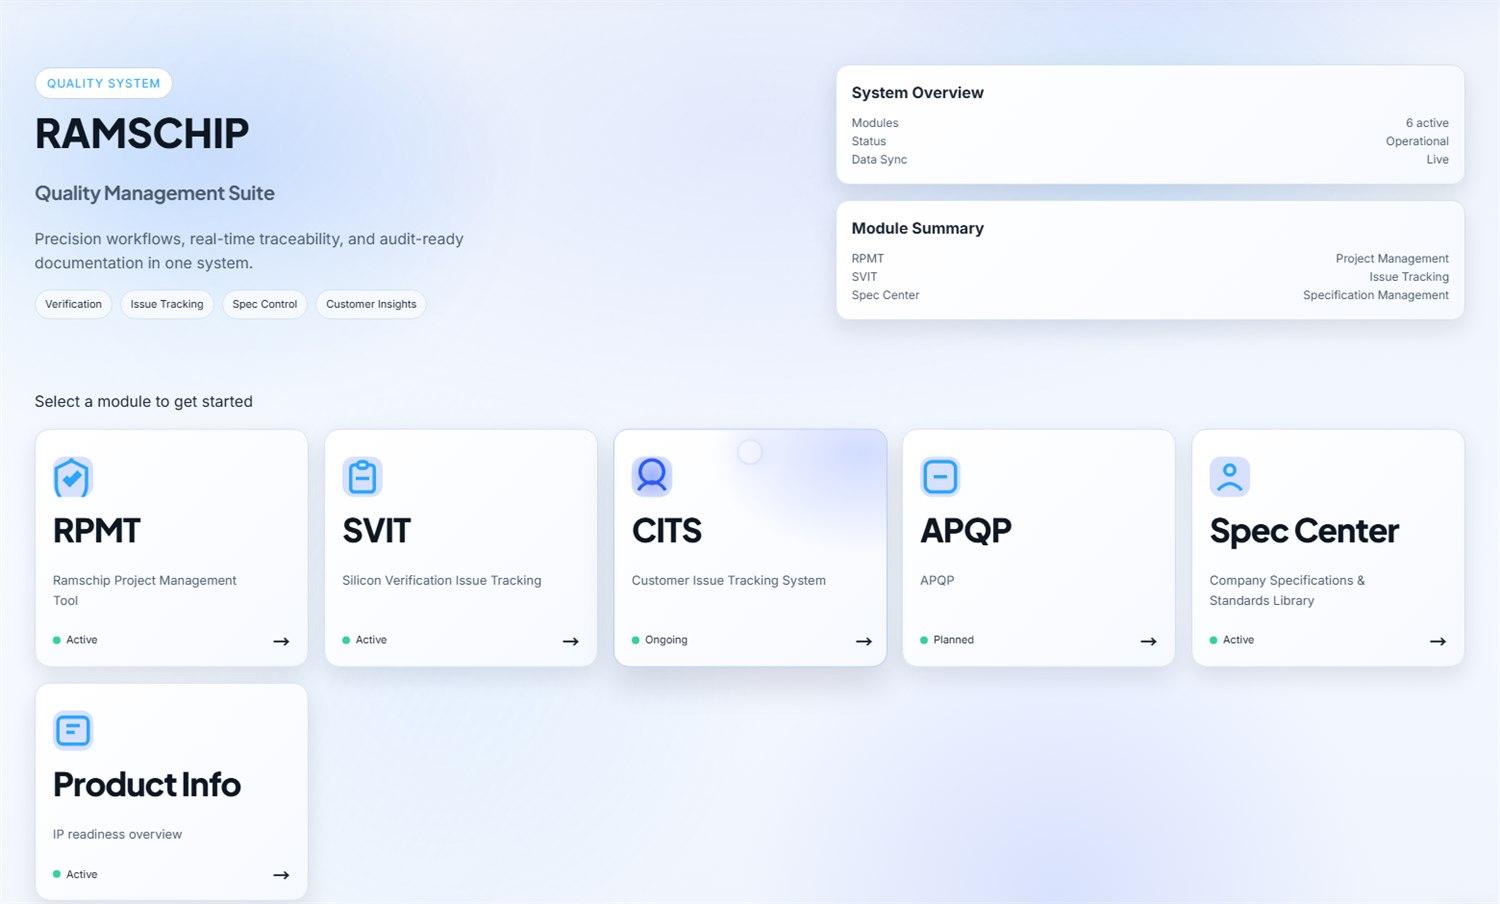
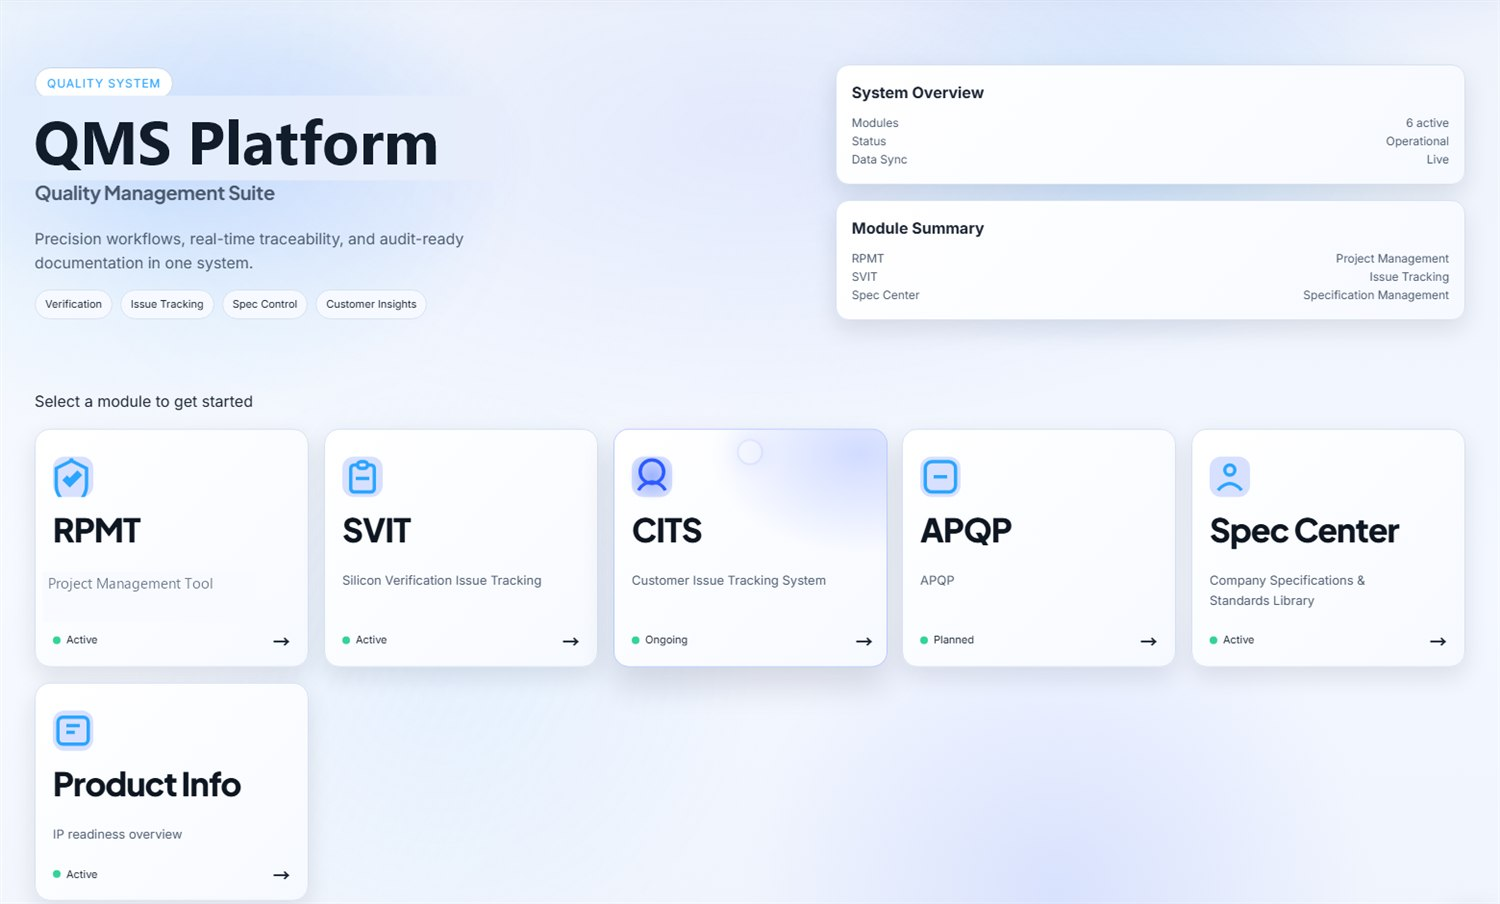
Use real app screenshots for FuSa Studio and DQV; mask company name on QMS
FuSa Studio and DQV Sign-off Hub now use real captured app screenshots (localhost:3000 and :5000) instead of a diagram/mockup; all three cards marked as real screens. Mask the RAMSCHIP wordmark on the QMS dashboard image (replaced with QMS Platform, RPMT subtitle genericized). Remove unused fusa-process.jpg.

Changed region(s): [[0.0, 0.1239, 0.3067, 0.2168], [0.0307, 0.6195, 0.1533, 0.6814]]

diff --git a/index.html b/index.html
@@ -238,14 +238,14 @@
 <article class="product rev reveal">
   <div class="showcase">
     <div class="window">
-      <div class="win-bar dark"><span class="dot r"></span><span class="dot y"></span><span class="dot g"></span><div class="win-url">fusa-studio / ISO 26262 work-product map</div></div>
-      <div class="shot-tall"><img src="assets/fusa-process.jpg" alt="FuSa Studio — ISO 26262 Phase·Activity·Work Product·Sub-Content 산출물 구조도 (Concept·Design·Implementation·Verification·Release)" loading="lazy"></div>
+      <div class="win-bar dark"><span class="dot r"></span><span class="dot y"></span><span class="dot g"></span><div class="win-url">fusa-studio / safety workspace</div></div>
+      <img src="assets/fusa-app.jpg" alt="FuSa Studio — ISO 26262 세이프티 워크스페이스: 프로젝트 인덱스, Functional Safety Governance, Ethernet PHY IP(ASIL B · SEooC)" loading="lazy">
     </div>
-    <p class="figcap">FuSa Studio가 관리하는 ISO 26262 산출물 체계도 (실제 산출물 맵)</p>
+    <p class="figcap">실제 운영 중인 FuSa Studio 화면입니다.</p>
   </div>
   <div class="product-info">
     <span class="product-tag"><i></i>Functional Safety Tool</span>
-    <h3>FuSa Studio<span class="real-badge">실제 산출물</span></h3>
+    <h3>FuSa Studio<span class="real-badge">실제 화면</span></h3>
     <p class="sub">ISO 26262 기능안전 산출물·추적성 관리 도구</p>
     <p>표준 요구를 실행 가능한 산출물로 바꾸기 위해 만든 기능안전 전용 도구입니다. HARA부터 Safety Goal, FSR/TSR, FMEA·FTA·FMEDA, V&amp;V까지 산출물을 연결하고, 요구사항 추적성과 안전 메트릭(SPFM·LFM·PMHF)을 한 화면에서 관리합니다.</p>
     <ul class="feat">
@@ -262,7 +262,7 @@
 <article class="product reveal">
   <div class="product-info">
     <span class="product-tag"><i></i>Release Gate System</span>
-    <h3>DQV Sign-off Hub<span class="ui-badge">UI 시안</span></h3>
+    <h3>DQV Sign-off Hub<span class="real-badge">실제 화면</span></h3>
     <p class="sub">Design Quality Verification 릴리스 게이트</p>
     <p>Foundry Standard 179개 필수 룰을 Verilog·LEF·Liberty·DRC·LVS·datasheet·pininfo Checker와 연결해 릴리스 판단을 시스템화했습니다. Job 상태, 검증 결과, 실패 원인을 분리해 관리하고 Sign-off 근거를 남깁니다.</p>
     <ul class="feat">
@@ -273,31 +273,17 @@
     <div class="stack"><span>Python</span><span>Rust</span><span>Rule Engine</span><span>DRC / LVS</span><span>CI Runner</span></div>
     <div class="pmetrics"><div><strong>179</strong><span>필수 룰</span></div><div><strong>7</strong><span>Checker 연동</span></div><div><strong>1-click</strong><span>Sign-off 근거</span></div></div>
   </div>
-  <div class="window">
-    <div class="win-bar"><span class="dot r"></span><span class="dot y"></span><span class="dot g"></span><div class="win-url">dqv-hub / release-readiness</div></div>
-    <div class="dqv">
-      <div class="dqv-left">
-        <div class="dqv-h">Foundry Standard · 179 Rules</div>
-        <div class="dqv-sub">MPW-A1 · Rev.C · Checker Results</div>
-        <div class="dchk"><span class="ci ok">✓</span><em>Verilog Netlist</em><s>28/28</s></div>
-        <div class="dchk"><span class="ci ok">✓</span><em>LEF · Abstract</em><s>21/21</s></div>
-        <div class="dchk"><span class="ci ok">✓</span><em>Liberty · Timing</em><s>34/34</s></div>
-        <div class="dchk"><span class="ci ok">✓</span><em>DRC</em><s>40/40</s></div>
-        <div class="dchk"><span class="ci ok">✓</span><em>LVS</em><s>26/26</s></div>
-        <div class="dchk"><span class="ci warn">!</span><em>Datasheet</em><s>17/18 · 1 waiver</s></div>
-        <div class="dchk"><span class="ci ok">✓</span><em>Pin Info</em><s>12/12</s></div>
-      </div>
-      <div class="dqv-right">
-        <div class="ring"><div><b>96%</b><i>Ready</i></div></div>
-        <div class="gate">SIGN-OFF READY</div>
-        <div class="gate pre">1 waiver 승인 후 Release</div>
-      </div>
+  <div class="showcase">
+    <div class="window">
+      <div class="win-bar dark"><span class="dot r"></span><span class="dot y"></span><span class="dot g"></span><div class="win-url">dqv-hub / dashboard</div></div>
+      <img src="assets/dqv-app.jpg" alt="DQV Sign-off Hub 대시보드 — Total/Pass/Fail/Running/Errors 현황과 IP 인스턴스 등록 폼" loading="lazy">
     </div>
+    <p class="figcap">실제 운영 중인 DQV Sign-off Hub 화면입니다.</p>
   </div>
 </article>
 
 </div>
-<p class="intro reveal" style="margin-top:26px;font-size:13px;color:#8493a6">* QMS·FuSa Studio는 실제 운영 중인 사내 소프트웨어 화면이며, 보안상 프로젝트·고객 실데이터는 예시 값으로 대체했습니다. DQV Sign-off Hub는 UI 시안으로 표시했습니다.</p>
+<p class="intro reveal" style="margin-top:26px;font-size:13px;color:#8493a6">* QMS·FuSa Studio·DQV Sign-off Hub 모두 실제 운영 중인 사내 소프트웨어 화면이며, 보안상 회사명·실데이터는 가리거나 예시 값으로 대체했습니다.</p>
 </div></section>
 
 <section><div class="wrap"><div class="section-head reveal"><div><p class="kicker">Operating Principles</p><h2>모호한 상황을 실행 가능한 결론으로 만듭니다.</h2></div><p class="intro">기술 프로젝트는 완벽한 정보가 모인 뒤 시작되지 않습니다. 불확실성을 숨기기보다 쟁점과 가정을 드러내고, 검증 가능한 기준으로 다음 의사결정을 만듭니다.</p></div><div class="operating"><article class="operate reveal"><span class="n">01</span><h3>기준부터 정의</h3><p>무엇을 완료로 볼지, 어떤 데이터가 의사결정에 필요한지 먼저 정합니다.</p></article><article class="operate reveal"><span class="n">02</span><h3>의존성을 가시화</h3><p>팀별 할 일보다 인터페이스와 선후관계, 병목 자원을 중심으로 일정을 봅니다.</p></article><article class="operate reveal"><span class="n">03</span><h3>결정과 근거를 기록</h3><p>Jira·추적성 매트릭스·리포트로 변경 이유와 영향 범위를 남깁니다.</p></article><article class="operate reveal"><span class="n">04</span><h3>재검증으로 종료</h3><p>개선안을 적용하는 데서 끝내지 않고 동일 조건에서 결과가 재현되는지 확인합니다.</p></article></div></div></section>